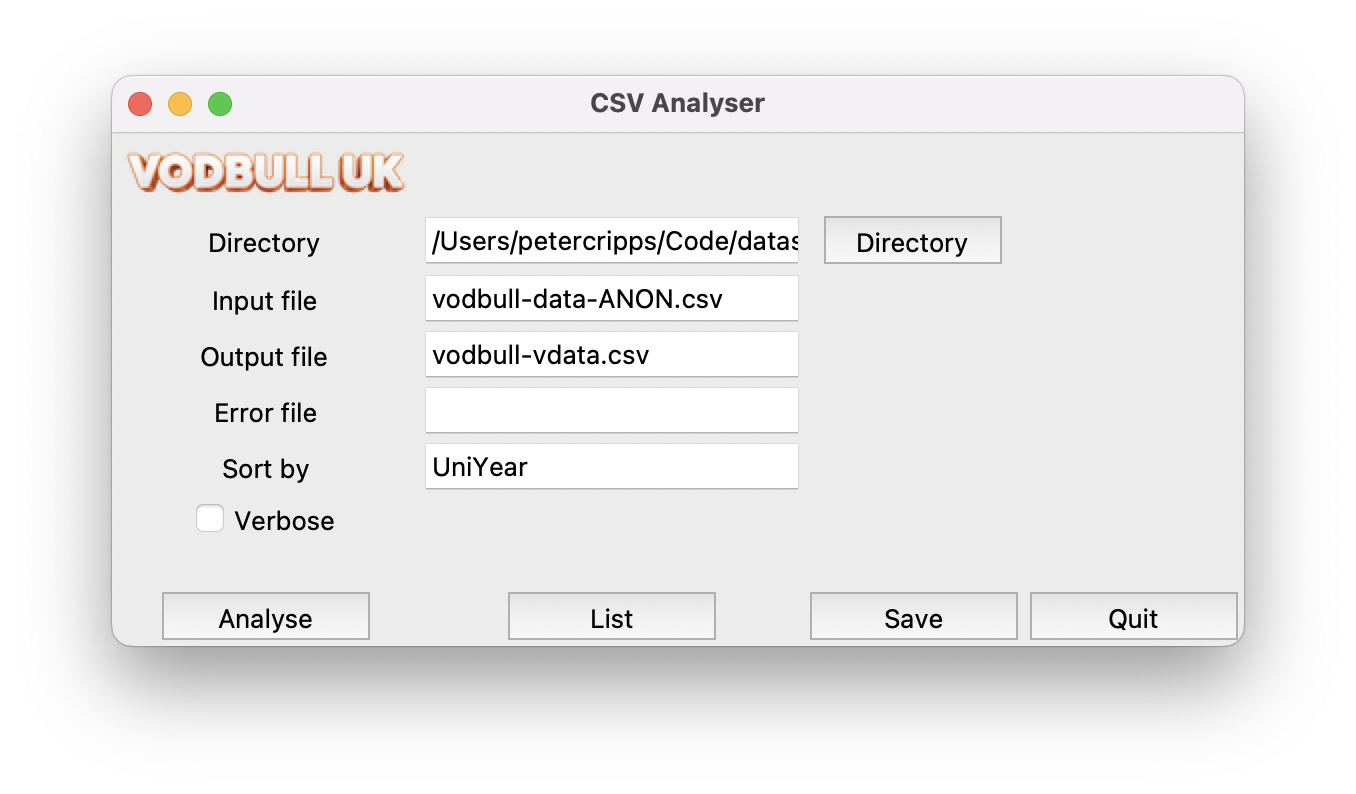
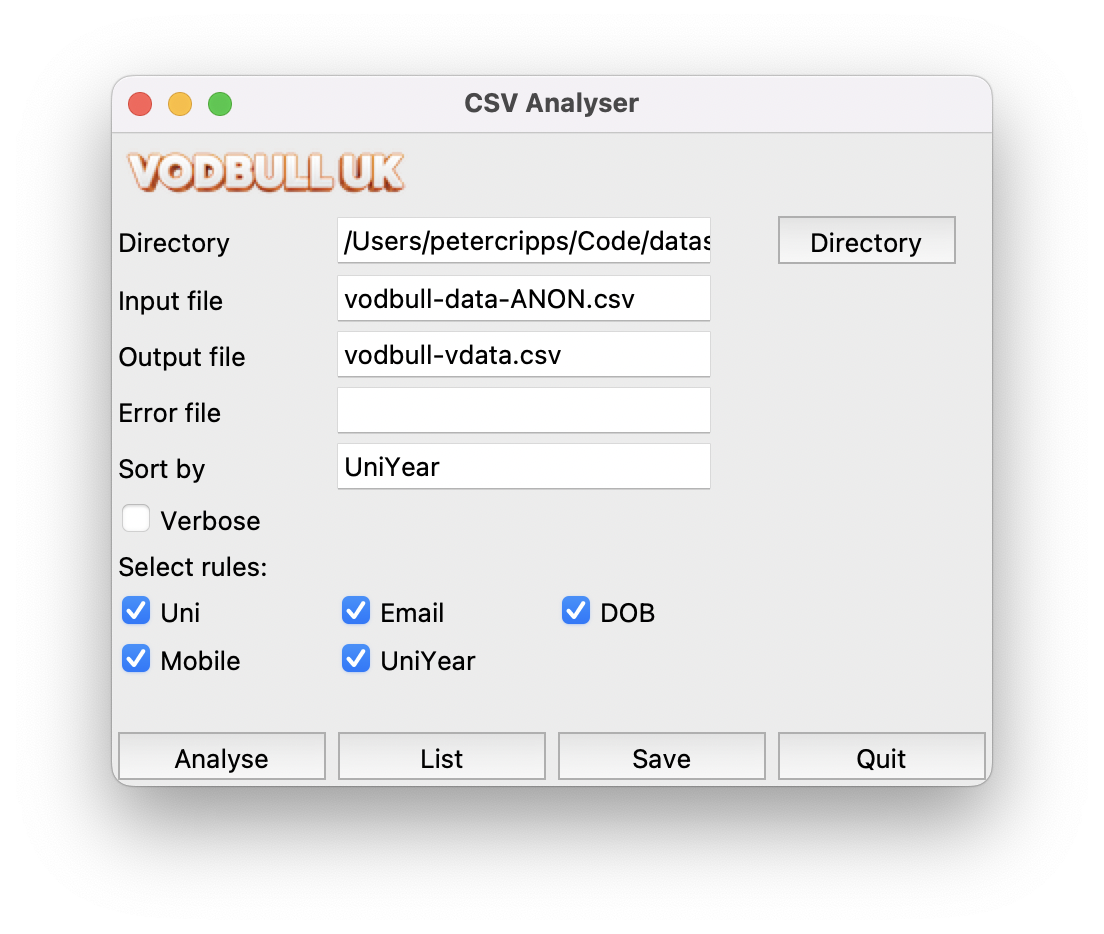
Make rules optional

diff --git a/appwindow.py b/appwindow.py
@@ -15,45 +15,45 @@ yfile = "config.yaml"
 # Add entry fields to window
 def add_entry_fields(window):
     # Create the label objects and pack them using grid
-    tk.Label(window, text="Directory", justify=tk.LEFT).grid(row=1, column=0)
-    tk.Label(window, text="Input file", justify=tk.LEFT).grid(row=2, column=0)
-    tk.Label(window, text="Output file", justify=tk.LEFT).grid(row=3, column=0)
-    tk.Label(window, text="Error file", justify=tk.LEFT).grid(row=4, column=0)
-    tk.Label(window, text="Sort by", justify=tk.LEFT).grid(row=5, column=0)
+    tk.Label(window, text="Directory").grid(row=1, column=0, sticky=tk.W)
+    tk.Label(window, text="Input file").grid(row=2, column=0, sticky=tk.W)
+    tk.Label(window, text="Output file").grid(row=3, column=0, sticky=tk.W)
+    tk.Label(window, text="Error file").grid(row=4, column=0, sticky=tk.W)
+    tk.Label(window, text="Sort by").grid(row=5, column=0, sticky=tk.W)
     
     # Create the entry objects and pack them using grid
     e0 = tk.Entry(window, textvariable=fpath)
-    e0.grid(row=1, column=1)
+    e0.grid(row=1, column=1, columnspan=2, sticky=tk.W)
     e0.insert(tk.END, config.configdict["path"])
     e1 = tk.Entry(window, textvariable=ifile)
-    e1.grid(row=2, column=1)
+    e1.grid(row=2, column=1, columnspan=2, sticky=tk.W)
     e1.insert(tk.END, config.configdict["csv-data"])
     e2 = tk.Entry(window, textvariable=vfile)
-    e2.grid(row=3, column=1)
+    e2.grid(row=3, column=1, columnspan=2, sticky=tk.W)
     e2.insert(tk.END, config.configdict["csv-vdata"])
     e3 = tk.Entry(window, textvariable=efile)
-    e3.grid(row=4, column=1)
+    e3.grid(row=4, column=1, columnspan=2, sticky=tk.W)
     e3.insert(tk.END, config.configdict["csv-edata"])
     e4 = tk.Entry(window, textvariable=scol)
-    e4.grid(row=5, column=1)
+    e4.grid(row=5, column=1, columnspan=2, sticky=tk.W)
     e4.insert(tk.END, config.configdict["sort"])
 
 # Add buttons to window
 def add_buttons(window):
-    tk.Button(window, text='Directory', command=directory, padx=2,pady=2).grid(row=1,column=2)
-    tk.Button(window, text='Analyse', command=analyse, width=8, padx=2,pady=2).grid(row=8,column=0)
-    tk.Button(window, text='List', command=list, width=8, padx=2,pady=2).grid(row=8,column=1)
-    tk.Button(window, text="Save", command=save, width=8, padx=2,pady=2).grid(row=8,column=2)
-    tk.Button(window, text="Quit", command=window.destroy, width=8, padx=2,pady=2).grid(row=8,column=3,)
+    tk.Button(window, text='Directory', command=directory, padx=2,pady=2).grid(row=1,column=3, sticky=tk.W)
+    tk.Button(window, text='Analyse', command=analyse, width=8, padx=2,pady=2).grid(row=11,column=0, sticky=tk.W)
+    tk.Button(window, text='List', command=list, width=8, padx=2,pady=2).grid(row=11,column=1, sticky=tk.W)
+    tk.Button(window, text="Save", command=save, width=8, padx=2,pady=2).grid(row=11,column=2, sticky=tk.W)
+    tk.Button(window, text="Quit", command=window.destroy, width=8, padx=2,pady=2).grid(row=11,column=3, sticky=tk.W)
 
-# Add a checkbox to window
-def add_checkbox(window):
-    cb = tk.Checkbutton(window, text = "Verbose", variable=check_verbose, justify=tk.LEFT)
-    if config.configdict["verbose"]:
+# Add checkbox to window
+def add_checkbox(window, rownm, colnm, var, txt,cb_status):
+    cb = tk.Checkbutton(window, text = txt, variable=var)
+    if cb_status:
         cb.select()
     else:
         cb.deselect()
-    cb.grid(column=0, row=6)
+    cb.grid(column=rownm, row=colnm, sticky=tk.W)
 
 # Add a blank line (i.e. a lable with no text)
 def add_blank_line(window, line):
@@ -95,10 +95,12 @@ def save():
     config.configdict["csv-vdata"] = vfile.get()
     config.configdict["csv-edata"] = efile.get()
     config.configdict["sort"] = scol.get()
-    if check_verbose.get() == 1:
-        config.configdict["verbose"] = True
-    else:
-        config.configdict["verbose"] = False
+    config.configdict["verbose"] = bool(check_verbose.get())
+    config.configdict["rules"]["Uni"] = bool(check_unirule.get())
+    config.configdict["rules"]["Email"] = bool(check_emailrule.get())
+    config.configdict["rules"]["DOB"] = bool(check_dobrule.get())
+    config.configdict["rules"]["UniYear"] = bool(check_uniyearrule.get())
+    config.configdict["rules"]["Mobile"] = bool(check_mobilerule.get())
     # Save to YAML file
     with open(yfile, 'w') as file:
         data = yaml.dump(config.configdict, file)
@@ -115,19 +117,32 @@ vfile = tk.StringVar()
 efile = tk.StringVar()
 scol = tk.StringVar()
 check_verbose = tk.IntVar()
+check_unirule = tk.IntVar()
+check_emailrule = tk.IntVar()
+check_dobrule = tk.IntVar()
+check_uniyearrule = tk.IntVar()
+check_mobilerule = tk.IntVar()
 
 # 3. Add logo (keep this in the main programme, not as a function)
 img = ImageTk.PhotoImage(Image.open("vodbulllogo.png"))
-imglabel = tk.Label(win, image=img).grid(row=0, column=0) 
+imglabel = tk.Label(win, image=img).grid(row=0, column=0, sticky=tk.W, columnspan=2) 
 
 # 4. Create entry fields
 add_entry_fields(win)
 
-# 5. Add checkbox
-add_checkbox(win)
+# 5. Add verbose checkbox
+add_checkbox(win,0,6,check_verbose,"Verbose",config.configdict["verbose"])
 
-# 6. Add buttons
-add_blank_line(win, 7)
+# 6. Add rules checkboxes
+tk.Label(win, text="Select rules:").grid(row=7, column=0, sticky=tk.W, columnspan=2)
+add_checkbox(win,0,8,check_unirule,"Uni",config.configdict["rules"]["Uni"])
+add_checkbox(win,1,8,check_emailrule,"Email",config.configdict["rules"]["Email"])
+add_checkbox(win,2,8,check_dobrule,"DOB",config.configdict["rules"]["DOB"])
+add_checkbox(win,0,9,check_mobilerule,"Mobile",config.configdict["rules"]["Mobile"])
+add_checkbox(win,1,9,check_uniyearrule,"UniYear",config.configdict["rules"]["UniYear"])
+
+# 7. Add buttons
+add_blank_line(win, 10)
 add_buttons(win)
 
 # 7. Run it

diff --git a/csvanalyser.py b/csvanalyser.py
@@ -15,7 +15,7 @@ import sys
 import csv
 import config
 from readargs import read_args
-from rules import validate_dob, validate_email, validate_uni, validate_phonenum
+from rules import validate_dob, validate_email, validate_uni, validate_phonenum, validate_uniyear
 
 # Start the program having loaded up parameters into config.configdict.
 # Parameters:
@@ -127,7 +127,8 @@ def csv_analyse():
         print(__file__, f"ERROR Invalid file")
 
 # Validate a single row from a dataframe using approriate rules. Note the indexes used in the rules
-# will need updating here if they are changed in the config YAML.
+# will need updating here if they are changed in the config YAML. A rule is only run if the flag for that rule
+# in the YAML dictionary 'rules' is 'True'.
 # Parameters:
 #   rownum : Integer - Number of row in file
 #   row : Series - The row containing the elements to be validated.
@@ -138,14 +139,21 @@ def validate_row(rownum, row):
     # Define a null string to contain error codes, will stay as null if no errors
     err_str = ""
     # Run the rules one by one, if error record in err_str
-    if not validate_dob(row["DOB"],18):
-        err_str = err_str + "DOB "
-    if not validate_email(row["Email"]):
-          err_str = err_str + "Email "
-    if not validate_uni(row["Uni"]):
-        err_str = err_str + "Uni "
-    if not validate_phonenum(row["Mobile"]):
-        err_str = err_str + "Mobile"
+    if (config.configdict["rules"]["DOB"]):
+        if not validate_dob(row["DOB"],18):
+            err_str = err_str + "DOB "
+    if (config.configdict["rules"]["Email"]):
+        if not validate_email(row["Email"]):
+            err_str = err_str + "Email "
+    if (config.configdict["rules"]["Uni"]):
+        if not validate_uni(row["Uni"]):
+            err_str = err_str + "Uni "
+    if (config.configdict["rules"]["Mobile"]):
+        if not validate_phonenum(row["Mobile"]):
+            err_str = err_str + "Mobile "
+    if (config.configdict["rules"]["UniYear"]):
+        if not validate_uniyear(row["UniYear"]):
+            err_str = err_str + "UniYear"
 
     return [row, err_str]
 

diff --git a/rules.py b/rules.py
@@ -48,19 +48,34 @@ def validate_email(email):
         return False
     return True
 
-# Test for a valid university. Check it is in list of valid universities'.
+# Test for a valid university. Check it is in list of valid universities.
 # Parameters:
 #   uni : str - The university to be validated.
 # Returns:
 #   bool - True if valid, False otherwise.
 def validate_uni(uni):
-    # Strio leading/trailing whitespace 
+    # Strip leading/trailing whitespace 
     uni = str(uni).strip()
     if (uni in config.configdict['unilist']):
         return True
     else:
         if config.configdict["verbose"]:
             print(f"Invalid university: {uni}")
+        return False
+
+# Test for a valid university year. Check it is in list of valid uniyears.
+# Parameters:
+#   uniyear : str - The university year to be validated.
+# Returns:
+#   bool - True if valid, False otherwise.
+def validate_uniyear(uniyear):
+    # Strip leading/trailing whitespace 
+    uniyear = str(uniyear).strip()
+    if (uniyear in config.configdict['uniyear']):
+        return True
+    else:
+        if config.configdict["verbose"]:
+            print(f"Invalid university year: {uniyear}")
         return False
 
 # Test for a valid phone number.

diff --git a/config.py b/config.py
@@ -22,3 +22,5 @@ if __name__ == "__main__":
     
     if True:
         print(configdict)
+        print(configdict["rules"])
+        print(configdict["rules"]["Uni"])

diff --git a/README.md b/README.md
@@ -22,7 +22,7 @@ Here's a component model showing the relationships (dependencies) between these 
 
 Download or clone the repo.
 
-The YAML file `config.yaml` contains all the parameters which can be modified. Apart from the column headers of the CSV file these parameters can all be changed from either the UI or the command line.
+The YAML file `config.yaml` contains all the parameters which can be modified.
 
 To run the programme enter one of the following in a terminal window:
 
@@ -42,6 +42,7 @@ Fields in the UI are as follows:
 - `Error file` Name of a separate CSV where all those lines in error are captured. If no file is entered here all error lines will be written to the output files with fields in error identified in a new column called 'Error'.
 - `Sort by` The field to sort output by. This must be ONE of the column names identified in the YAML file (see below).
 - `Verbose` If this is checked more output is provided in the terminal during analysis.
+- `Select rules` Check the box next to the rules you want to run.
 
 Buttons are as follows:
 - `Analyse` Analyse the CSV and output to the output/error file.
@@ -59,6 +60,14 @@ If the input file contains columns which are in a different order then the order
 - OrderRef
 - RepName
 - RepEmail
+- Uni
+- Mobile
+- DOB
+- UniYear
+
+One or more rules can be prevented from running by setting the flag for that rule in the YAML file to 'False' (or unchecking the checkbox in the UI).
+The rules currently available are:
+- Email
 - Uni
 - Mobile
 - DOB
